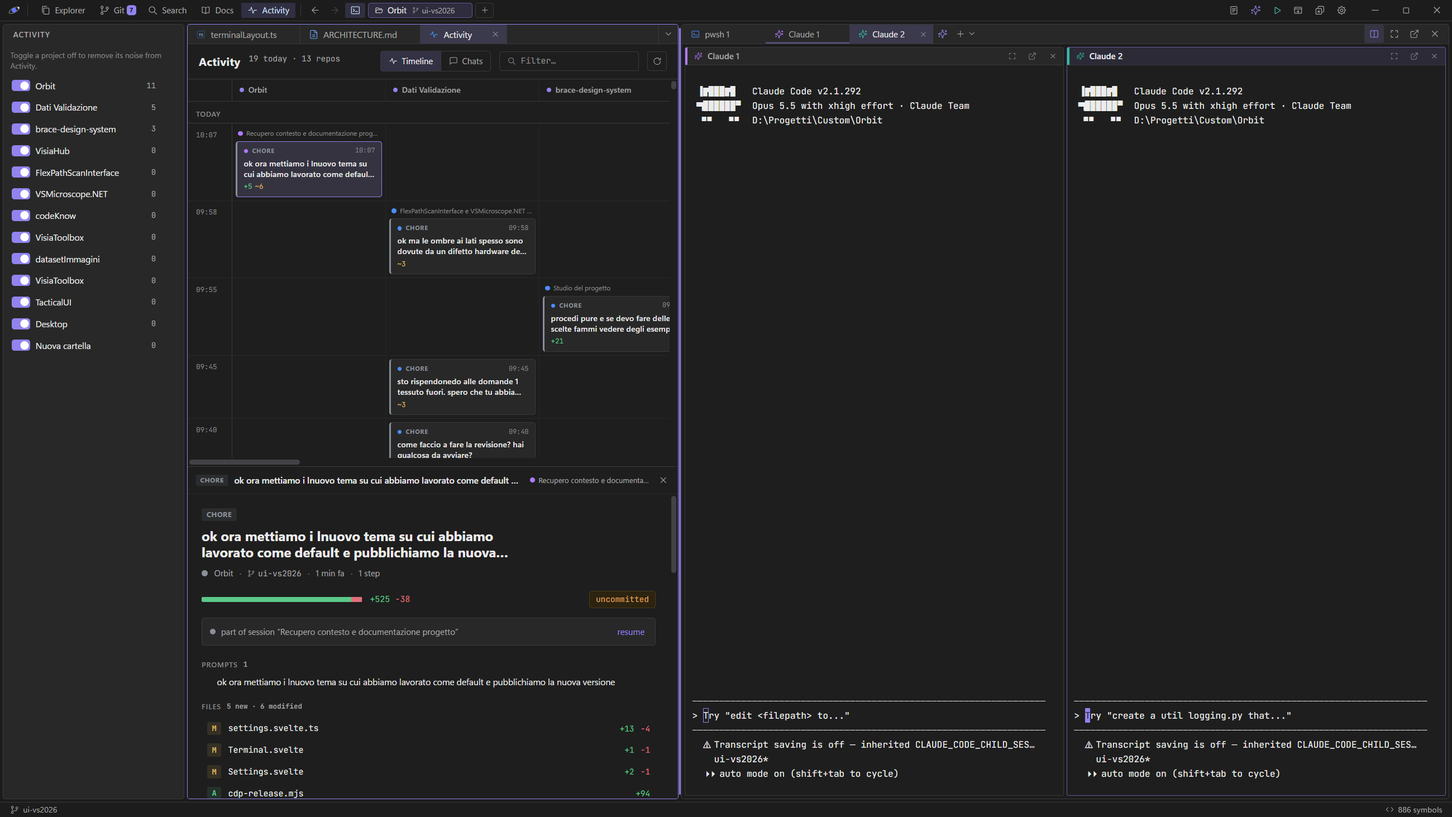
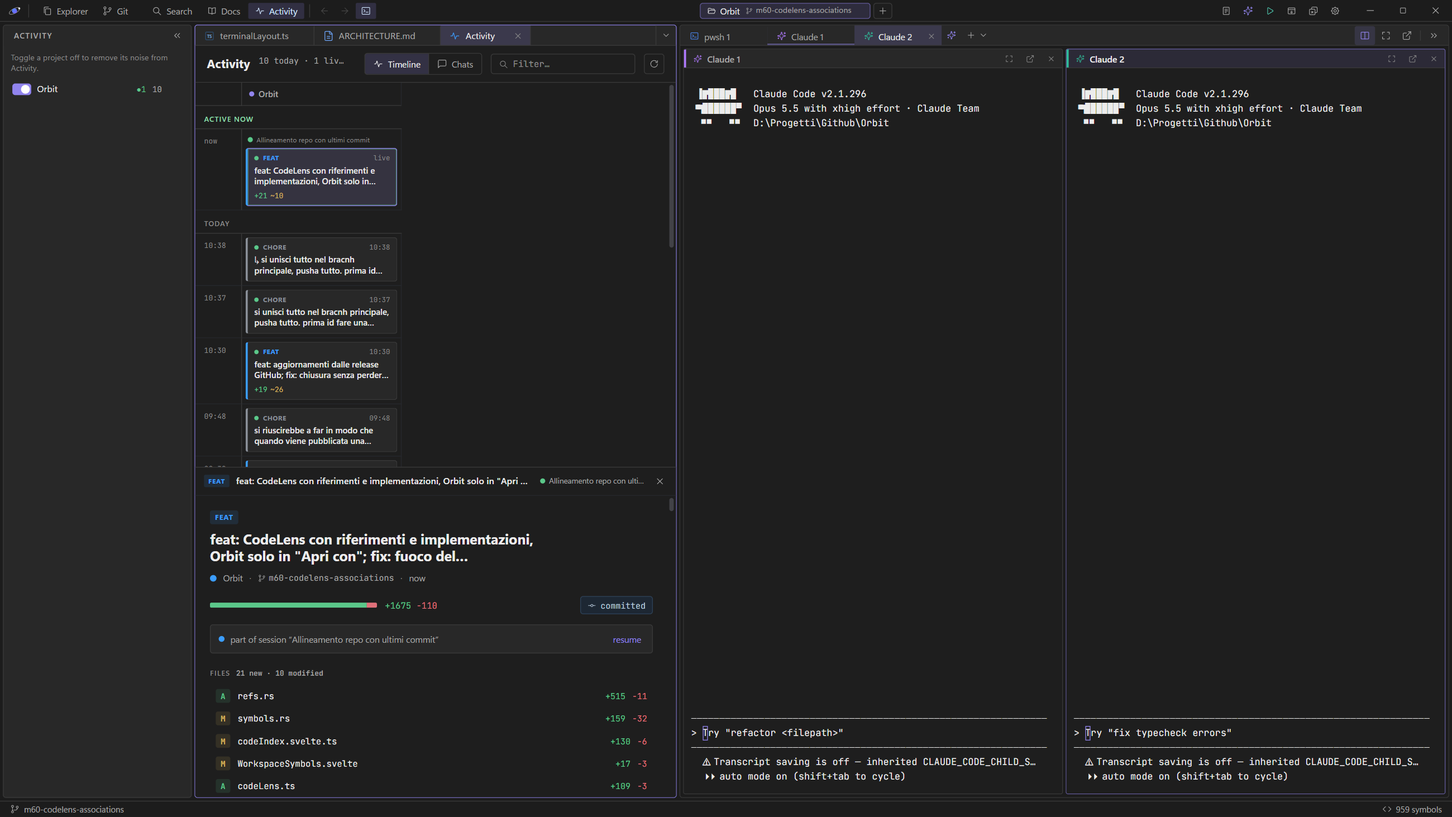
docs: README, ARCHITECTURE, NOTES e screenshot per la M60
Screenshot rifatti con l'interfaccia attuale (CodeLens, barra repo centrata,
Attività corretta), stessa inquadratura 2600×1463; in Attività solo Orbit.

diff --git a/NOTES.md b/NOTES.md
@@ -14,7 +14,7 @@ il codice accanto a Claude Code). Identifier bundle: `com.visialab.lume`.
 - [Gate del progetto](#gate-del-progetto-se-cadono-ci-si-ferma) · [Stack](#stack)
 - Milestone [1](#milestone-1--scaffold-base) · [2](#milestone-2--dark-shell-gate-estetico) · [3](#milestone-3--albero-file--apertura-file) · [4](#milestone-4--editor-codemirror-6) · [5](#milestone-5--pannello-git-libgit2) · [6](#milestone-6--terminale-integrato-pty--finestra-flottante) · [7](#milestone-7--file-watcher-notify) · [8](#milestone-8--footprint-e-verifica-dei-gate)
 - [Restyling UI](#restyling-ui-richiesta-utente) · [Estensioni](#estensioni-post-base-su-richiesta)
-- Milestone [9](#milestone-9--produttività-gestione-file-persistenza-findreplace-quick-open) · [10](#milestone-10--terminali-multipli) · [11](#milestone-11--git-discard--cronologia) · [12](#milestone-12--startup-lazy--decorazioni-git-companion) · [13](#milestone-13--configurazioni-di-esecuzione-esegui--loop-con-claude) · [14](#milestone-14--selettore-branch-status-bar--istanze-multiple--distribuzione) · [15](#milestone-15--scaffale-cartelle-messe-da-parte-per-categoria) · [16](#milestone-16--rifinitura-grafica-ide--terminale) · [17](#milestone-17--polish-grafico-2-diff-toast-focus-title-bar-tab) · [18](#milestone-18--impostazioni-font-cursore-fluido-uireadme-in-inglese) · [19](#milestone-19--zoom-font-vs-look-visual-studio-2026) · [20](#milestone-20--verso-il-look-visual-studio-git-gutter-card-densità) · [21](#milestone-21--indagine-footprint--webgl-opt-in) · [22](#milestone-22--manutenzione-doc-pulizia-repo-refactor) · [23](#milestone-23--più-linguaggi--esperienza-markdowndocs) · [24](#milestone-24--integrazione-claude-code) · [25](#milestone-25--refactor--pulizia-pre-release) · [26](#milestone-26--split-view-riquadri-editor-affiancati) · [27](#milestone-27--rifiniture-split-view--terminale-flottante) · [28](#milestone-28--revisione-pre-release-v020) · [29](#milestone-29--git-completo-vai-al-simbolo-chat-claude-v030) · [30](#milestone-30--viewer-immagini-e-pdf-drop-file-menu-contestuali-multi-detach-v031) · [31](#milestone-31--titolo-finestra-wrapper-claude-open-with-menu-a-sezioni-v032) · [32](#milestone-32--temi-glifi-file-per-linguaggio-notifica-claude-trim-davvio-v040) · [33](#milestone-33--la-finestra-ricorda-posizione-e-dimensione) · [34](#milestone-34--navigazione-del-codice-scorciatoie-configurabili-esegui-script) · [35](#milestone-35--segui-il-file-attivo-badge--pin-del-terminale-flottante-v050) · [36](#milestone-36--finestre-multiple-chiudi-tutte-e-riapri-tutte-c) · [37](#milestone-37--selettore-repo-in-top-bar-più-cartelle-aperte-una-attiva-v060) · [38](#milestone-38--autosave-quick-prompt-keymap-custom-default-markdown-nav-indietroavanti-highlight-semantico-cc-v070) · [39](#milestone-39--multi-finestra--multi-cartella-lista-repo-e-sessioni-per-finestra-v071) · [40](#milestone-40--scaffale-regole-per-nome-rifiniture-top-bar-e-salto-riga-v072) · [41](#milestone-41--perf-terminale-robustezza-e-rete-di-test-v073) · [42](#milestone-42--topbar-uniforme-e-revisione-notifica-claude-v074) · [43](#milestone-43--vista-attività-unità-di-lavoro-dai-transcript-claude-v080) · [44](#milestone-44--revisione-copiaincolla-terminale--editor-affidabilità-e-fix-doppio-incolla-v081) · [45](#milestone-45--piccole-rifiniture-v081) · [46](#milestone-46--sistema-di-log-diagnostico-v082) · [47](#milestone-47--fix-doppio-incolla-e-copia-nel-terminale-di-claude-v084) · [48](#milestone-48--indicatore-usage-tokencosto--stima-limiti-5hsettimana-v085) · [49](#milestone-49--git-graph--switch-repo-a-schede--contatore-globale-usage-v086) · [50](#milestone-50--pannello-usage-embedded-la-pagina-claudeai-al-posto-dei-contatori-stimati-v087) · [51](#milestone-51--attività-per-chat-colori-di-sessione--lente-chats-v088) · [52](#milestone-52--anteprima-html--anteprima-nella-split-view-v089) · [53](#milestone-53--via-il-pannello-usage-nuovo-logo-e-rifiniture-v0810) · [54](#milestone-54--chat-affiancate-nel-pannello-terminale-v0811) · [55](#milestone-55--look-visual-studio-2026-chat-affiancate-rifinite-nomi-e-colori-delle-schede-v090) · [56](#milestone-56--movimento-fluido-del-layout-barra-repo-riordinabile-e-centrata-v091) · [57](#milestone-57--modalità-leggera-pannelli-comprimibili-in-striscia-simmetria-delle-icone-fix-reveal-e-trascinamento-chat) · [58](#milestone-58--chiudi-tutte-le-schede-zoom-delle-immagini) · [59](#milestone-59--aggiornamenti-da-github-nessuna-modifica-persa-alla-chiusura-bug-noti)
+- Milestone [9](#milestone-9--produttività-gestione-file-persistenza-findreplace-quick-open) · [10](#milestone-10--terminali-multipli) · [11](#milestone-11--git-discard--cronologia) · [12](#milestone-12--startup-lazy--decorazioni-git-companion) · [13](#milestone-13--configurazioni-di-esecuzione-esegui--loop-con-claude) · [14](#milestone-14--selettore-branch-status-bar--istanze-multiple--distribuzione) · [15](#milestone-15--scaffale-cartelle-messe-da-parte-per-categoria) · [16](#milestone-16--rifinitura-grafica-ide--terminale) · [17](#milestone-17--polish-grafico-2-diff-toast-focus-title-bar-tab) · [18](#milestone-18--impostazioni-font-cursore-fluido-uireadme-in-inglese) · [19](#milestone-19--zoom-font-vs-look-visual-studio-2026) · [20](#milestone-20--verso-il-look-visual-studio-git-gutter-card-densità) · [21](#milestone-21--indagine-footprint--webgl-opt-in) · [22](#milestone-22--manutenzione-doc-pulizia-repo-refactor) · [23](#milestone-23--più-linguaggi--esperienza-markdowndocs) · [24](#milestone-24--integrazione-claude-code) · [25](#milestone-25--refactor--pulizia-pre-release) · [26](#milestone-26--split-view-riquadri-editor-affiancati) · [27](#milestone-27--rifiniture-split-view--terminale-flottante) · [28](#milestone-28--revisione-pre-release-v020) · [29](#milestone-29--git-completo-vai-al-simbolo-chat-claude-v030) · [30](#milestone-30--viewer-immagini-e-pdf-drop-file-menu-contestuali-multi-detach-v031) · [31](#milestone-31--titolo-finestra-wrapper-claude-open-with-menu-a-sezioni-v032) · [32](#milestone-32--temi-glifi-file-per-linguaggio-notifica-claude-trim-davvio-v040) · [33](#milestone-33--la-finestra-ricorda-posizione-e-dimensione) · [34](#milestone-34--navigazione-del-codice-scorciatoie-configurabili-esegui-script) · [35](#milestone-35--segui-il-file-attivo-badge--pin-del-terminale-flottante-v050) · [36](#milestone-36--finestre-multiple-chiudi-tutte-e-riapri-tutte-c) · [37](#milestone-37--selettore-repo-in-top-bar-più-cartelle-aperte-una-attiva-v060) · [38](#milestone-38--autosave-quick-prompt-keymap-custom-default-markdown-nav-indietroavanti-highlight-semantico-cc-v070) · [39](#milestone-39--multi-finestra--multi-cartella-lista-repo-e-sessioni-per-finestra-v071) · [40](#milestone-40--scaffale-regole-per-nome-rifiniture-top-bar-e-salto-riga-v072) · [41](#milestone-41--perf-terminale-robustezza-e-rete-di-test-v073) · [42](#milestone-42--topbar-uniforme-e-revisione-notifica-claude-v074) · [43](#milestone-43--vista-attività-unità-di-lavoro-dai-transcript-claude-v080) · [44](#milestone-44--revisione-copiaincolla-terminale--editor-affidabilità-e-fix-doppio-incolla-v081) · [45](#milestone-45--piccole-rifiniture-v081) · [46](#milestone-46--sistema-di-log-diagnostico-v082) · [47](#milestone-47--fix-doppio-incolla-e-copia-nel-terminale-di-claude-v084) · [48](#milestone-48--indicatore-usage-tokencosto--stima-limiti-5hsettimana-v085) · [49](#milestone-49--git-graph--switch-repo-a-schede--contatore-globale-usage-v086) · [50](#milestone-50--pannello-usage-embedded-la-pagina-claudeai-al-posto-dei-contatori-stimati-v087) · [51](#milestone-51--attività-per-chat-colori-di-sessione--lente-chats-v088) · [52](#milestone-52--anteprima-html--anteprima-nella-split-view-v089) · [53](#milestone-53--via-il-pannello-usage-nuovo-logo-e-rifiniture-v0810) · [54](#milestone-54--chat-affiancate-nel-pannello-terminale-v0811) · [55](#milestone-55--look-visual-studio-2026-chat-affiancate-rifinite-nomi-e-colori-delle-schede-v090) · [56](#milestone-56--movimento-fluido-del-layout-barra-repo-riordinabile-e-centrata-v091) · [57](#milestone-57--modalità-leggera-pannelli-comprimibili-in-striscia-simmetria-delle-icone-fix-reveal-e-trascinamento-chat) · [58](#milestone-58--chiudi-tutte-le-schede-zoom-delle-immagini) · [59](#milestone-59--aggiornamenti-da-github-nessuna-modifica-persa-alla-chiusura-bug-noti) · [60](#milestone-60--codelens-apri-con-senza-predefinito-rifiniture-per-la-10)
 - [Ambiente di sviluppo verificato](#ambiente-di-sviluppo-verificato)
 
 ---
@@ -2843,6 +2843,132 @@ Lezioni di collaudo:
   `Input.insertText` nell'editor, IPC per i comandi) e le impostazioni si preparano nel `localStorage`;
 - lo strumento PowerShell rifiuta `Remove-Item` con percorsi costruiti da variabili: percorsi espliciti, o `rm`
   dalla bash dopo aver controllato il percorso.
+
+---
+
+## Milestone 60 — CodeLens, "Apri con" senza predefinito, rifiniture per la 1.0
+
+Richiesta dell'utente (2026-10-10), dopo il merge e il push della M59: "prima di fare una nuova release
+discutiamo di codelens e chiudiamo tutti i punti aperti? poi alla fine rilascerei 1.0.0". Scelte: la lente
+**sopra la dichiarazione** (come Visual Studio), con **riferimenti e implementazioni** (niente informazioni
+git), il clic apre l'**elenco nella palette**; da chiudere prima della 1.0: associazioni solo "Apri con",
+screenshot del README nuovi, pulizia prima del rilascio. Branch `m60-codelens-associations`.
+
+### CodeLens
+- **Cosa conta.** Niente language server (gate #1): i riferimenti si contano **per nome**, nello stesso giro
+  della scansione dei simboli. `refs.rs` legge ogni file con un lexer per famiglia di linguaggi (C-like, C#,
+  JS/TS/Svelte, Go, Python, markup XAML/Razor): salta commenti e stringhe ma legge le interpolazioni
+  (`$"{x}"`, `` `${x}` ``, f-string), riconosce i lifetime di Rust, le raw string, i prefissi di Python, i
+  numeri. Conta le **righe** che contengono il nome, non le occorrenze: così il numero sulla lente è uguale alle
+  righe dell'elenco (prima prova: 13 lenti su 13 coerenti solo dopo questo cambio). La scansione tiene solo i
+  nomi che sono simboli; `codeIndex` li salva in `.orbit/index/refs.json` accanto a `symbols.json`.
+- **Cosa mostra.** "N references" = righe col nome − dichiarazioni − costruttori; **≈** davanti quando il nome
+  è dichiarato più volte (il conto per nome mescola omonimi). Niente lente sui costruttori e sui metodi
+  speciali di Python. Sui tipi anche "N implementations" (gli implementatori già noti alla barra dei
+  correlati). Impostazione *Code lens*, accesa di default.
+- **Il clic.** *N references* chiama `ref_list(root, name)` (async su un thread bloccante: le righe che
+  contengono il nome, file ≤ 2 MB con prefiltro sul testo, al massimo 2000) e apre la palette di `Ctrl+T` con
+  file e testo della riga (tipo `ref`), le dichiarazioni escluse; Invio salta lì e la cronologia avanti/indietro
+  funziona come per Vai alla definizione. *N implementations* riusa `showImplementers`.
+- **Editor** (`editor/codeLens.ts`): widget di blocco di uno `StateField`, mappati sulle modifiche (le lenti
+  seguono il testo mentre scrivi, si ricalcolano al salvataggio); rientro uguale a quello della riga
+  (padding di `.cm-line` + rientro × `defaultCharacterWidth`: senza il padding erano 6 px a sinistra);
+  testo all'85% della dimensione dell'editor; l'azione su `click` (il `mousedown` viene inghiottito, sennò il
+  cursore saltava sulla riga della lente).
+- **Fuori dal thread principale**: `scan_symbols`, `ref_list` (e già `scan_activity`) sono comandi async — un
+  comando Tauri sincrono gira sul thread principale e blocca la finestra.
+- **Peso** (gate #1): nessuna dipendenza nuova. In release, scansione + conteggi: Orbit 14,3 ms (1.049 simboli,
+  931 nomi), Quiver 21,7 ms (C#, 1.780 simboli, 1.457 nomi) — `symbols::tests::scan_timing`, ignorato, a mano.
+
+### Scanner TS/JS
+Le lenti hanno mostrato simboli che non lo erano:
+- `const all = (refs[name] ?? 0) - decls` era una funzione (bastava una parentesi in testa);
+- `const t = terminals.list.find((s) => s.id === id)`: bastava un `=>` sulla riga → una "funzione `t`" con una
+  lente da 100+ riferimenti (`left`, `right`, `next`… in `terminalLayout.ts`). Ora è una funzione solo se il
+  valore È una funzione: `function`, `async …`, `(…) =>`/`(…): T =>` (parentesi bilanciate, o ancora aperte a
+  fine riga = parametri su più righe), `<T,>(…) =>`, `x =>`;
+- le funzioni dentro altre funzioni sono aiutanti locali e restano fuori dalla rubrica: più rientrate del livello
+  esterno (0, o il rientro dello `<script>` in un componente Svelte).
+Sull'indice di Orbit: 1.072 → 953 simboli; i 119 tolti erano valori (`ALL_THEME_VARS`, `lastRev`, `off`…) o
+aiutanti annidati (`mayQuit`, `tick`, `canon`…), nessuna funzione di primo livello.
+
+### Bug del fuoco (preesistente, trovato col clic sulle lenti)
+La palette aperta da una lente non prendeva il fuoco, e lo stesso valeva per `Ctrl+P` premuto con l'editor
+attivo: **i tasti finivano nel file**. Causa: Svelte 5 applica `autofocus` solo se il fuoco è sul `body`
+(`svelte/src/internal/client/dom/elements/misc.js`). Nuova azione `focusOnMount` (`lib/focus.ts`) al posto di
+`autofocus` in QuickOpen, SymbolPalette, WorkspaceSymbols, WrapperComposer, UnsavedDialog, UpdateDialog,
+StatusBar e nei due campi di rinomina dei terminali (che con `{ select: true }` ora selezionano il nome:
+riselezione al frame dopo, perché xterm riprendeva la selezione).
+
+### "Apri con" senza diventare il programma predefinito
+- **Il problema**: `bundle.fileAssociations` fa scrivere all'installer NSIS di Tauri `APP_ASSOCIATE`, che non
+  aggiunge Orbit ad "Apri con": lo rende il **predefinito** dell'estensione (`HKCU\Software\Classes\.ext` =
+  `Orbit document`, il valore precedente in `Orbit document_backup`). Sul PC dell'utente (letto, non toccato):
+  12 estensioni (`txt md json py js ts cs html png pdf svelte log`) avevano Orbit come predefinito con backup
+  vuoto; dove c'è una `UserChoice` (6 di queste) vince quella.
+- **La soluzione**: `tauri.windows.conf.json` toglie `fileAssociations` solo su Windows (merge patch JSON;
+  macOS e Linux lo usano ancora) e `windows/hooks.nsh` fa la registrazione: il ProgID `Orbit document` (stesso
+  nome, così le scelte "usa sempre Orbit" già fatte continuano a funzionare) con icona e comando, e il ProgID
+  nelle `OpenWithProgids` di ogni estensione. Dove il predefinito è ancora quello messo da un Orbit precedente
+  lo restituisce: il backup, se c'era, altrimenti nessuno — togliendo anche il valore VUOTO che il vecchio
+  disinstallatore lascia (riscrive il backup invece di cancellare), perché un predefinito vuoto in HKCU
+  nasconde quello di sistema. Le `UserChoice` non si toccano; gli script (`bat cmd ps1 sh bash`, tolti dalla
+  v0.8.10) hanno solo la pulizia. La disinstallazione toglie le voci e il ProgID.
+- **Prova** (banco `makensis` con l'`hooks.nsh` vero, ProgID `OrbitTest document` ed estensioni finte
+  `.orbt1-5`, quindi nessuna estensione vera del PC toccata): predefinito nostro con backup vuoto → tolto;
+  con backup → restituito; vuoto lasciato dal disinstallatore → tolto; di un altro programma → intatto; chiave
+  assente → solo "Apri con". Dopo la disinstallazione niente voci, niente chiavi vuote, niente ProgID.
+
+### Attività (difetti trovati preparando gli screenshot)
+- Etichetta "ode-strips": il messaggio di commit si cercava come il primo `-m` del comando, anche dentro
+  `git merge light-mode-strips && git commit …`. Ora solo i flag dopo `git commit`, a parola intera; letti anche
+  `-am`, `--message=`, `-F -` con un heredoc e la here-string di PowerShell (`-m @'…'@`); `\"` dentro le
+  virgolette. `git commit` dentro una stringa (`echo "git commit"`) non è più un commit.
+- "(senza titolo)" su metà delle unità: un'unità senza un prompt suo (lavoro proseguito dopo un cambio di
+  branch o un commit, nello stesso turno) prende ora la richiesta da cui viene, con **↳**; il ripiego finale è
+  "(untitled)". Le unità committate senza hash nell'output (`git commit -q`) risultavano "uncommitted" e non
+  contavano tra i commit delle chat; il dettaglio non mostra più "0 steps" per le unità di seguito.
+- Intestazione: a pannello stretto Timeline/Chats (gruppo con `overflow: hidden`) si restringevano fino a "Ch";
+  ora si accorcia prima il riepilogo (coi puntini, testo intero nel tooltip), poi il filtro.
+- La cache delle unità è solo in memoria: con un Orbit nuovo le etichette si ricalcolano tutte.
+
+### Interfaccia in inglese
+Gli ultimi testi italiani dell'interfaccia: i tempi relativi ("5 min fa" → "5 min ago", date en-GB) in Attività e
+nella cronologia Git, "Testo" → "Plain Text" nella barra di stato, il compositore dei wrapper (segnaposto,
+anteprima, bottoni, avvisi), le regole dello scaffale, il toast "No folder open", i diff senza differenze, un
+errore di configurazione. Le scorciatoie predefinite di Claude e la sezione generata del CLAUDE.md restano in
+italiano: sono contenuto, non interfaccia.
+
+### Screenshot del README
+Rifatti tutti e tre con l'interfaccia attuale (barra repo centrata, strisce, CodeLens, Attività corretta), stessa
+inquadratura di prima: finestra 2000×1125 catturata a 2600×1463. Con il CDP:
+`Page.captureScreenshot` con `clip.scale: 1.3` ridisegna il testo alla risoluzione maggiore senza cambiare
+`devicePixelRatio`; `Emulation.setDeviceMetricsOverride` invece lo cambia, xterm fa le righe più alte senza
+rifittare e l'ultima riga delle chat usciva dal riquadro. Le chat sono `claude` veri nell'istanza di prova, che
+eredita `CLAUDE_CODE_CHILD_SESSION`: niente transcript (lo dice la riga "Transcript saving is off"). In
+Attività compare solo Orbit: gli altri progetti dell'utente (un repo privato, progetti di lavoro) sono tolti
+dalla lista nel profilo dell'istanza di prova, non in quello vero — un README pubblico non li deve mostrare.
+
+### Verifica
+`svelte-check` 0/0 (270 file), vitest **36/36** (2 nuovi: testi in inglese), `cargo test` **48/48** (12 nuovi:
+7 del lexer dei riferimenti — commenti, stringhe e interpolazioni per C#, JS, Rust, Python, Go e markup, numeri,
+righe invece di occorrenze —, 3 dello scanner TS, 2 di Attività) + 2 misure ignorate. Collaudo nell'istanza
+isolata (CDP, clic veri) su una copia del codice C# di Quiver e una del codice di Orbit:
+- lenti sopra le dichiarazioni allineate al testo (335,2 px entrambe); *4 references* su `IWindowsIntegration`
+  → palette con 4 righe, dichiarazione esclusa, Invio alla riga 45, Indietro torna; *2 implementations* → 2;
+- digitando sopra una dichiarazione la lente la segue; il toggle le spegne e le riaccende; le palette prendono
+  il fuoco anche dall'editor (prima i tasti finivano nel file);
+- Attività sui transcript veri: etichette dai commit (anche `-F -`), seguiti con ↳, "Timeline" e "Chats" interi
+  a 660 px di editor, "now"/"committed" nel dettaglio.
+
+Lezioni di collaudo:
+- Svelte 5: `autofocus` non è una garanzia; per i campi che devono avere il fuoco, `use:focusOnMount`;
+- quando Vite ricarica la pagina intera (modifica a un modulo condiviso) la lista dei terminali riparte da zero
+  ma i PTY restano vivi nel backend: si chiudono con `pty_kill` (gli id ripartono da `term-1`);
+- Python su Windows scrive `\r\n` in modalità testo: per i file del repo `newline=""` (il `.gitattributes` con
+  `eol=lf` normalizza il commit, non la copia di lavoro);
+- in PowerShell i nomi delle variabili non distinguono le maiuscole: `$h` (l'handle) sovrascriveva il parametro
+  `$H` (l'altezza) → finestra alta 32.767 px.
 
 ---
 

diff --git a/docs/ARCHITECTURE.md b/docs/ARCHITECTURE.md
@@ -26,13 +26,14 @@ src/
                       #   plain .ts helpers: dotorbit.ts (.orbit config), projectFiles.ts (list_files cache),
                       #   scratch.ts (scratchpad); pure, vitest-tested logic: shelfRules.ts, terminalLayout.ts,
                       #   editorTabs.ts
-    editor/           # CodeMirror extensions (theme, indent guides, git gutter, semantic overlay) + outline.ts (symbols), activeEditor.ts
+    editor/           # CodeMirror extensions (theme, indent guides, git gutter, semantic overlay, code lens) + outline.ts (symbols), activeEditor.ts
     assets/           # orbit-wordmark.svg (the brand wordmark as vector paths)
     util.ts           # pure helpers (paths, file icons, language label, time)
     markdown.ts       # Markdown → sanitized HTML (marked + DOMPurify, lazy) + heading TOC
     clipboard.ts      # centralized copy/paste: Tauri clipboard plugin + navigator fallback, explicit success
     gitgraph.ts       # Git Graph lane layout (pure): commits + parents → lanes and segments to draw
     motion.ts         # panelSlide: side transition of the shell panels, strips and splitters (M57)
+    focus.ts          # focusOnMount: focus (and select) an input on mount — Svelte 5's autofocus doesn't (M60)
 src-tauri/
   src/lib.rs          # Rust entry: fs/session/window commands + run() (registers all)
   src/git.rs          # git commands (libgit2), incl. git_graph (branch/commit graph)
@@ -40,11 +41,13 @@ src-tauri/
   src/pty.rs          # terminal/PTY commands
   src/watcher.rs      # file watcher (emits "fs-changed")
   src/symbols.rs      # heuristic project symbol scanner (scan_symbols) — no LSP, std only
+  src/refs.rs         # code lens references: identifier lexer (no comments/strings), counts by name, ref_list
   src/winsession.rs   # multi-window session: per-window registry, reopen-all + close-all, geometry (replaces winstate)
   src/updater.rs      # in-app updates from GitHub releases (tauri-plugin-updater driven by own commands)
   tauri.conf.json     # window, bundle, productName "Orbit"
+  tauri.windows.conf.json # Windows overrides: no bundle.fileAssociations ("Open with" lives in hooks.nsh)
   capabilities/       # Tauri permission capabilities
-  windows/hooks.nsh   # NSIS post-install hook: removes script associations left by older versions
+  windows/hooks.nsh   # NSIS hooks: Orbit in "Open with" without becoming the default; hands back older defaults
 scripts/New-Release.ps1 # release: version check, signed installers, latest.json, GitHub release (-Publish)
 scripts/              # footprint measurement (measure-orbit.ps1, measure-orbit-ram.ps1)
 app-icon.svg          # brand mark, single source of the OS icons (see Theming → Brand mark)
@@ -78,7 +81,7 @@ Three kinds of frontend module, kept separate:
 | `search` | project text search (debounced) |
 | `quickopen` | Ctrl+P fuzzy file finder |
 | `symbols` | **Go to Symbol** palette (Ctrl+Shift+O): outline of the active editor + fuzzy filter |
-| `codeIndex` | **project symbol index** (the "address book") from `scan_symbols`, cached in `.orbit/index/`: **Go to definition** (F12/Ctrl+click), **Project symbols** palette (Ctrl+T), the related‑bar context (`contextAt`), the **semantic‑overlay name sets** (`semSets`/`semIndex` → type & function names for the editor overlay), and the **back/forward nav history** (records jumps *and* file/tab switches; `nav` counts drive the top‑bar arrows) |
+| `codeIndex` | **project symbol index** (the "address book") from `scan_symbols`, cached in `.orbit/index/`: **Go to definition** (F12/Ctrl+click), **Project symbols** palette (Ctrl+T), the related‑bar context (`contextAt`), the **semantic‑overlay name sets** (`semSets`/`semIndex` → type & function names for the editor overlay), the **code lens** data (`refs` counts from `index/refs.json`, `lensesFor`, `openReferences`/`openImplementations`), and the **back/forward nav history** (records jumps *and* file/tab switches; `nav` counts drive the top‑bar arrows) |
 | `keybindings` | central **command registry** + keyboard matcher/dispatch, with per‑preset keys (Orbit/VS/IntelliJ) **plus a user‑built `custom` keymap** (`settings.customKeys`, rebind per command) and the shortcuts‑reference panel; `keyStringFromEvent` captures a rebind, `conflictKeys` flags duplicates |
 | `activity` | **Activity** view: work units from `scan_activity` across all `~/.claude/projects` (prompt‑first segmentation in Rust); project on/off toggles `activityPrefs` (persisted, hides noise) + `openActivity`; live refresh via `watch_activity`→`activity-changed` |
 | `scratch` | one‑click persistent plain‑text scratchpad (`.orbit/scratch.txt`) for notes/prompts; renames a legacy `scratch.md` on first use |
@@ -235,6 +238,21 @@ first paint loads only the Explorer + the active editor.
   own move and pre‑set the current position to dodge async races. `RelatedBar.svelte` (under the breadcrumb) shows `contextAt`'s enclosing symbol
   (type › method) with clickable base types / implementers and `KindBadge.svelte` monograms; it reserves
   its height when the file has symbols (no layout shift) and empties when the cursor is outside a symbol.
+- **Code lens (M60)** — `editor/codeLens.ts`: block widgets from a `StateField`
+  (`Decoration.widget({ block: true, side: -1 })`) above each declaration line, mapped through edits and
+  replaced by the `setLenses` effect; each lens is indented like its line (`.cm-line` padding + indent ×
+  `defaultCharacterWidth`) and acts on `click` (its `mousedown` is swallowed so the caret doesn't move).
+  `Editor.svelte` feeds it from `codeIndex.lensesFor(relPath)` in an `$effect` on the symbol index, the
+  `refs` counts, `settings.codeLens` and the file. The counts come from the **same walk** as the symbols:
+  `refs.rs` lexes each file per language family (C‑like, C#, JS/TS/Svelte, Go, Python, markup — comments
+  and strings skipped, interpolations read, Rust lifetimes and raw strings, Python prefixes) and counts the
+  **lines** containing each identifier, so the number on the lens equals the rows of the list; the scan
+  keeps only names that are symbols and `codeIndex` caches them in `.orbit/index/refs.json`. A lens shows
+  `refs − declarations − constructors`, with **≈** when the name is declared more than once; constructors
+  and Python dunders get none. *N references* calls `ref_list(root, name)` (async: every matching line,
+  ≤ 2000, declarations filtered out) and shows it in the `Ctrl+T` palette (file glyph + line text, the
+  `ref` kind); *N implementations* reuses `showImplementers`. On Quiver (C#, 1,780 symbols) scan + counts
+  take ~22 ms in release.
 - **Follow active file (reveal)** — `settings.revealActive` (the ⌖ toggle in the explorer toolbar)
   drives an `$effect` in `App.svelte` that calls `explorer.revealInTree(activeFile.path)`: it expands
   the active file's ancestor folders (matched by segment name, case‑insensitive, lazy‑loading as
@@ -257,7 +275,10 @@ first paint loads only the Explorer + the active editor.
   toolbar (`EditorArea.svelte`); reuses the terminal model (`cwd`/`initCommand`), no new Rust command.
 - **Activity (work units)** — `activity.rs`'s `scan_activity` reads ALL `~/.claude/projects/*/*.jsonl`
   transcripts and reconstructs **work units** (PROMPT‑FIRST: each user prompt + the files/commands it
-  triggers = one unit; a `git commit` labels the unit it falls in; a branch change is a hard boundary;
+  triggers = one unit; a `git commit` labels the unit it falls in — the message is read only from flags
+  after `git commit` (`-m`, `-am`, `--message=`, `-F -` with a heredoc, PowerShell here‑strings) —; a unit
+  with no prompt of its own (work that went on after a branch change or a commit) is labelled `↳ <the
+  request it came from>`; a branch change is a hard boundary;
   file +/− from `toolUseResult.structuredPatch`, the full prompt text is kept for the digest). `watch_activity`
   watches `~/.claude/projects` (notify) and emits **`activity-changed`** for live refresh. Frontend:
   `activity.svelte.ts` (state + `loadActivity` + project on/off `activityPrefs`, persisted; `sessionColor` =
@@ -441,12 +462,19 @@ first paint loads only the Explorer + the active editor.
   Windows, corporate proxy roots included) and the system proxy is honoured. Releases come from
   `scripts/New-Release.ps1` (signing key outside the repo, `createUpdaterArtifacts` only there so a plain
   `tauri build` needs no key); `bundle.windows.nsis.installerIcon` gives setup and uninstaller Orbit's icon.
-- **Open with (Windows)** — `bundle.fileAssociations` registers Orbit as a handler for common file
-  types, so it shows up in the OS "Open with" menu (registered by the **installer**, not `tauri dev`).
-  Caveat: Tauri's NSIS installer makes Orbit the **default** handler of each listed extension wherever
-  Windows has no user choice, so script types (`bat`/`cmd`/`ps1`/`sh`/`bash`) are not listed — they must
-  keep running on double‑click — and `src-tauri/windows/hooks.nsh` (`NSIS_HOOK_POSTINSTALL`) removes the
-  keys an older version left for them, only where Orbit's `Orbit document_backup` value is present.
+- **Open with (Windows)** — Orbit shows up in the OS "Open with" menu of common text, code, image and
+  PDF files (registered by the **installer**, not `tauri dev`) **without becoming their default**.
+  `bundle.fileAssociations` (still used on macOS/Linux) is nulled for Windows in `tauri.windows.conf.json`
+  (JSON merge patch), because Tauri's NSIS installer makes Orbit the default handler of every listed
+  extension (`HKCU\Software\Classes\.ext` = `Orbit document`, the old value in `Orbit document_backup`).
+  Instead `src-tauri/windows/hooks.nsh` (`NSIS_HOOK_POSTINSTALL`) writes the `Orbit document` ProgID (same
+  name, so an "always use Orbit" already chosen keeps working) and adds it to each extension's
+  `OpenWithProgids`; where the default is still the one an older Orbit set — or the empty value its
+  uninstaller left, which would hide the system default — it hands back the backup or removes it. User
+  choices (`UserChoice`) are never touched; script types (`bat`/`cmd`/`ps1`/`sh`/`bash`) only get that
+  clean‑up, so they keep running on double‑click. `NSIS_HOOK_PREUNINSTALL` removes the entries and the
+  ProgID. `ORBIT_PROGID` and `ORBIT_FOR_EACH_EXT` can be redefined before including the file: the M60 test
+  bench ran install and uninstall with a fake ProgID on fake extensions (5 starting states).
   `startup()` opens a file passed as the first CLI argument (`orbit.exe "<file>"`) in a **light window**,
   with its parent folder as context only (see *Light window*).
 
@@ -483,8 +511,13 @@ frontend calls them with `invoke("name", {args})`. Areas:
 - **Terminal** (`pty.rs`): `pty_spawn`, `pty_write`, `pty_resize`, `pty_kill`, `pty_alive`, `list_shells`;
   streams output as `pty-data-<id>` events.
 - **Symbols** (`symbols.rs`): `scan_symbols(root)` — heuristic project‑wide symbol scan (C#/Java, C/C++,
-  TS/JS/Svelte, Python, Rust, Go; std only, no LSP / no `regex`); returns
-  `Symbol { name, kind, file, line, container, bases, isAbstract }`. C#/Java members (M59): a declaration
+  TS/JS/Svelte, Python, Rust, Go; std only, no LSP / no `regex`); async (blocking thread, M60); returns
+  `{ symbols: Symbol[], refs: Record<name, lines> }` with
+  `Symbol { name, kind, file, line, container, bases, isAbstract }` and the code lens counts. TS/JS (M60): a
+  value built with a callback (`const t = list.find((x) => …)`) is not a function, and functions nested in
+  other functions (indented past the top level, or past the `<script>` of a Svelte component) are local
+  helpers and stay out (1,072 → 953 symbols on Orbit, none at top level lost). `ref_list(root, name)`
+  (`refs.rs`, async) lists the lines that use a name for the code lens palette. C#/Java members (M59): a declaration
   needs a modifier **before** the name and no expression in front of it (`=`, strings, `.`, unbalanced
   parentheses, `new`/`return`/`await`…), so calls and `new X()` are no longer indexed as methods; leading
   attributes/annotations are skipped, generic methods (`Load<T>(…)`) and `Name => …` properties are found.
@@ -566,6 +599,9 @@ theme's ink colors (readable on Orbit Light too); the planet keeps the brand gra
 - **Path helpers** are centralized in `util.ts` (`normSlash`, `relTo`, `joinPath`, `basename`,
   `dirname`) — don't re‑implement path normalization in components.
 - Reusable UI primitives: `Backdrop.svelte` (popup overlay) and `Switch.svelte` (toggle).
+- **Focus on mount with `use:focusOnMount`** (`lib/focus.ts`), never `autofocus`: Svelte 5 applies
+  `autofocus` only when nothing else has the focus, so a palette opened from the editor stayed unfocused and
+  the keys went into the file (M60). `use:focusOnMount={{ select: true }}` also selects the text.
 
 ## Develop / build / test
 

diff --git a/README.md b/README.md
@@ -65,8 +65,10 @@ cross-platform desktop app that weighs almost nothing.
 - **Quick Open** (`Ctrl/Cmd+P`) with fuzzy ranking, and full‑text **project search**.
 - **Drag in files**: drop files from your OS file manager onto the editor to open them.
 - On Windows, the installer registers Orbit for common **text, code, image and PDF** files, so it
-  shows up in their **"Open with"** menu. Scripts (`.bat`, `.cmd`, `.ps1`, `.sh`) are deliberately
-  left alone: double-clicking them still runs them.
+  shows up in their **"Open with"** menu — without making itself their **default** app: double-click
+  keeps opening whatever it opened before (installing 1.0 also hands back the defaults that earlier
+  versions had taken over). Scripts (`.bat`, `.cmd`, `.ps1`, `.sh`) are deliberately left alone:
+  double-clicking them still runs them.
 - **Light window for a single file**: a file opened on its own ("Open with", double-click) opens in a
   lightweight window — just the file, with both side panels collapsed. Its folder is only context, not a
   project: Orbit writes nothing into it (no `.orbit`, no `.claude`), doesn't index or watch the tree below,
@@ -109,8 +111,14 @@ cross-platform desktop app that weighs almost nothing.
 - A background **symbol index** of the whole project — classes, interfaces, structs, enums, methods,
   functions and more — for C#/Java, **C/C++**, TypeScript/JavaScript/Svelte, Python, Rust and Go. Built
   by a hand‑rolled Rust scanner (no LSP), cached under `.orbit/index/` and refreshed live as files change.
+  Local helpers declared inside other functions stay out of it.
 - **Go to definition** (`F12`, or `Ctrl/Cmd+click`) jumps across files; ambiguous names show a picker.
 - **Project symbols** (`Ctrl/Cmd+T`): fuzzy‑jump to any symbol in the project.
+- **Code lens** (Visual Studio style): a small line above classes, interfaces, types, methods and
+  functions shows **N references** and, on types, **N implementations** — click it for the list in the
+  palette (file and line, `Enter` jumps there). References are counted **by name** in the same pass that
+  builds the symbol index: the project lines that use the name, skipping comments and strings, with **≈**
+  when the name is declared more than once. Toggle in Settings (*Code lens*).
 - A **related bar** under the breadcrumb shows the symbol around the cursor (type › method) with its
   **base types / interfaces** and **implementers** (click to jump), plus kind badges (class,
   interface, abstract, method…).
@@ -205,8 +213,11 @@ cross-platform desktop app that weighs almost nothing.
   (title, repo, prompts/steps, churn, commits, live): selecting it opens the whole conversation in the
   bottom panel — **every prompt in order**, each with its outcome — with a **▶ Resume this chat** button
   (resuming always restarts the whole session, so the chat is the natural unit). Clicking a unit in the
-  timeline still opens its per‑unit **digest**. A small left panel lists your projects with **on/off
-  toggles** (remembered) to hide noise, plus per‑project mini‑stats.
+  timeline still opens its per‑unit **digest**. A unit is titled with its **commit message** when it
+  produced one (also when the message came through a heredoc), otherwise with its prompt; work that went
+  on without a new prompt — on another branch, or after a commit — shows **↳** and the request it came
+  from. A small left panel lists your projects with **on/off toggles** (remembered) to hide noise, plus
+  per‑project mini‑stats.
 - A **Scratchpad** (📝 in the top bar) opens a persistent plain‑text notes/prompts file
   (`.orbit/scratch.txt`) to jot prompts and reuse them.
 - **Attention when a terminal needs you** — when `claude` finishes a turn or waits for input (Orbit
@@ -270,7 +281,7 @@ cross-platform desktop app that weighs almost nothing.
   conflict warnings) — full reference in Settings → Keyboard shortcuts.
 - **Settings**: theme, keymap preset (incl. Custom), editor/terminal font with **independent sizes**
   (`Ctrl/Cmd+scroll` zooms whichever panel the pointer is over), accent color, smooth-caret toggle,
-  **smooth panel transitions**, **autosave**, **default Markdown view** (source / preview / READMEs only), terminal GPU rendering,
+  **code lens**, **smooth panel transitions**, **autosave**, **default Markdown view** (source / preview / READMEs only), terminal GPU rendering,
   "launch Claude in the default terminal", "notify when a terminal needs you", **diagnostic logging** (collect/export logs to investigate issues),
   and **automatic update checks** (with the installed version and *Check now*).
 
